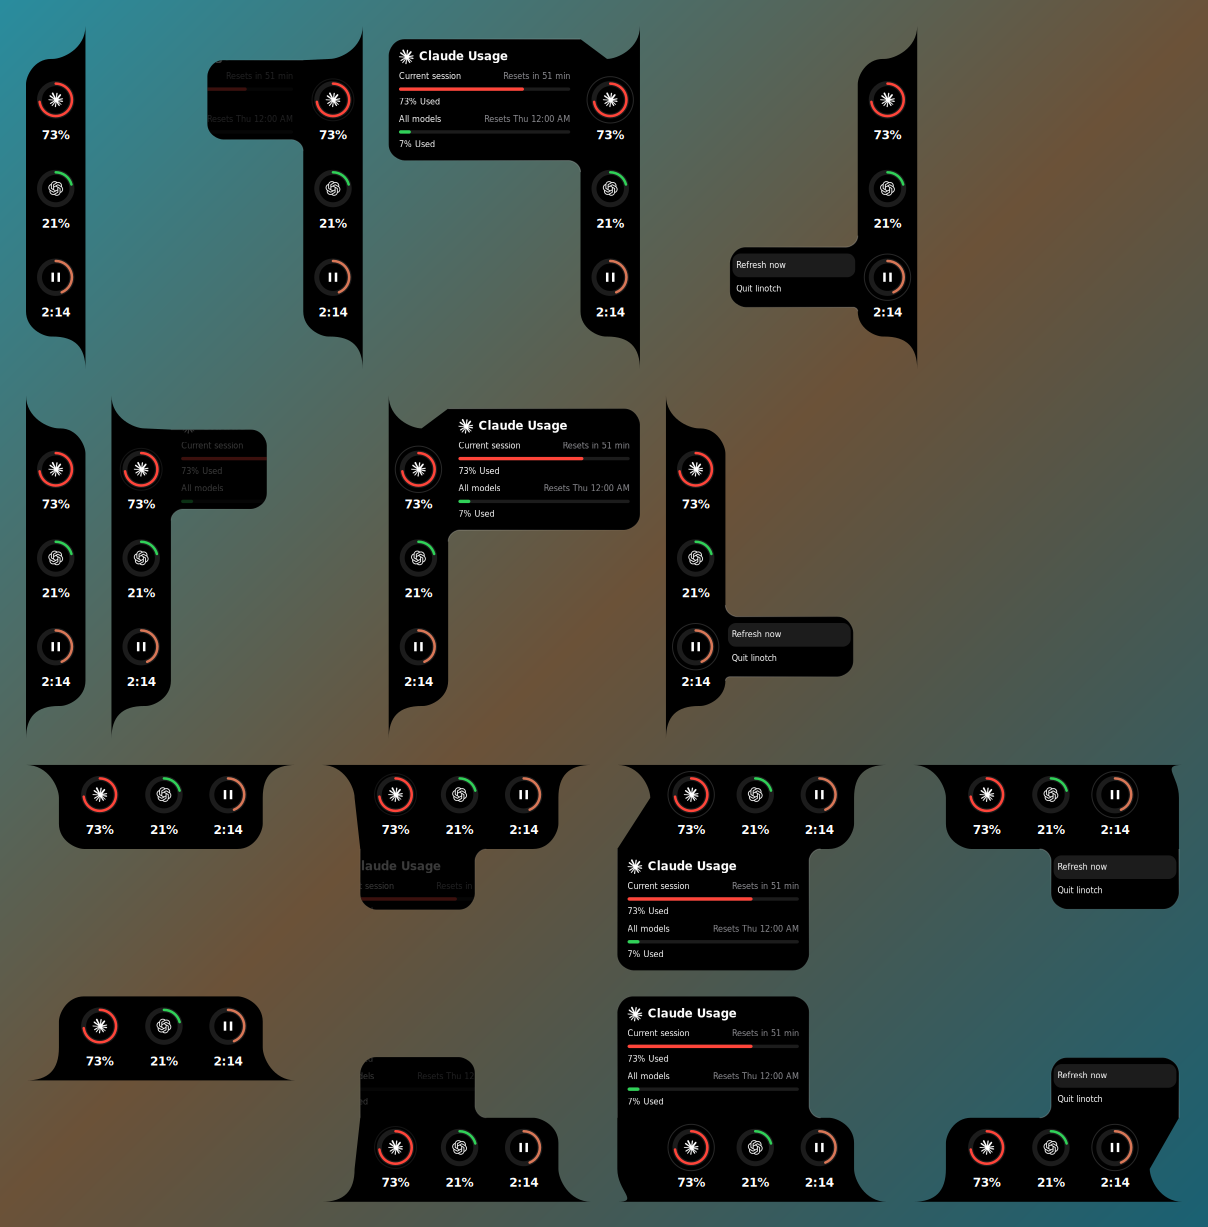
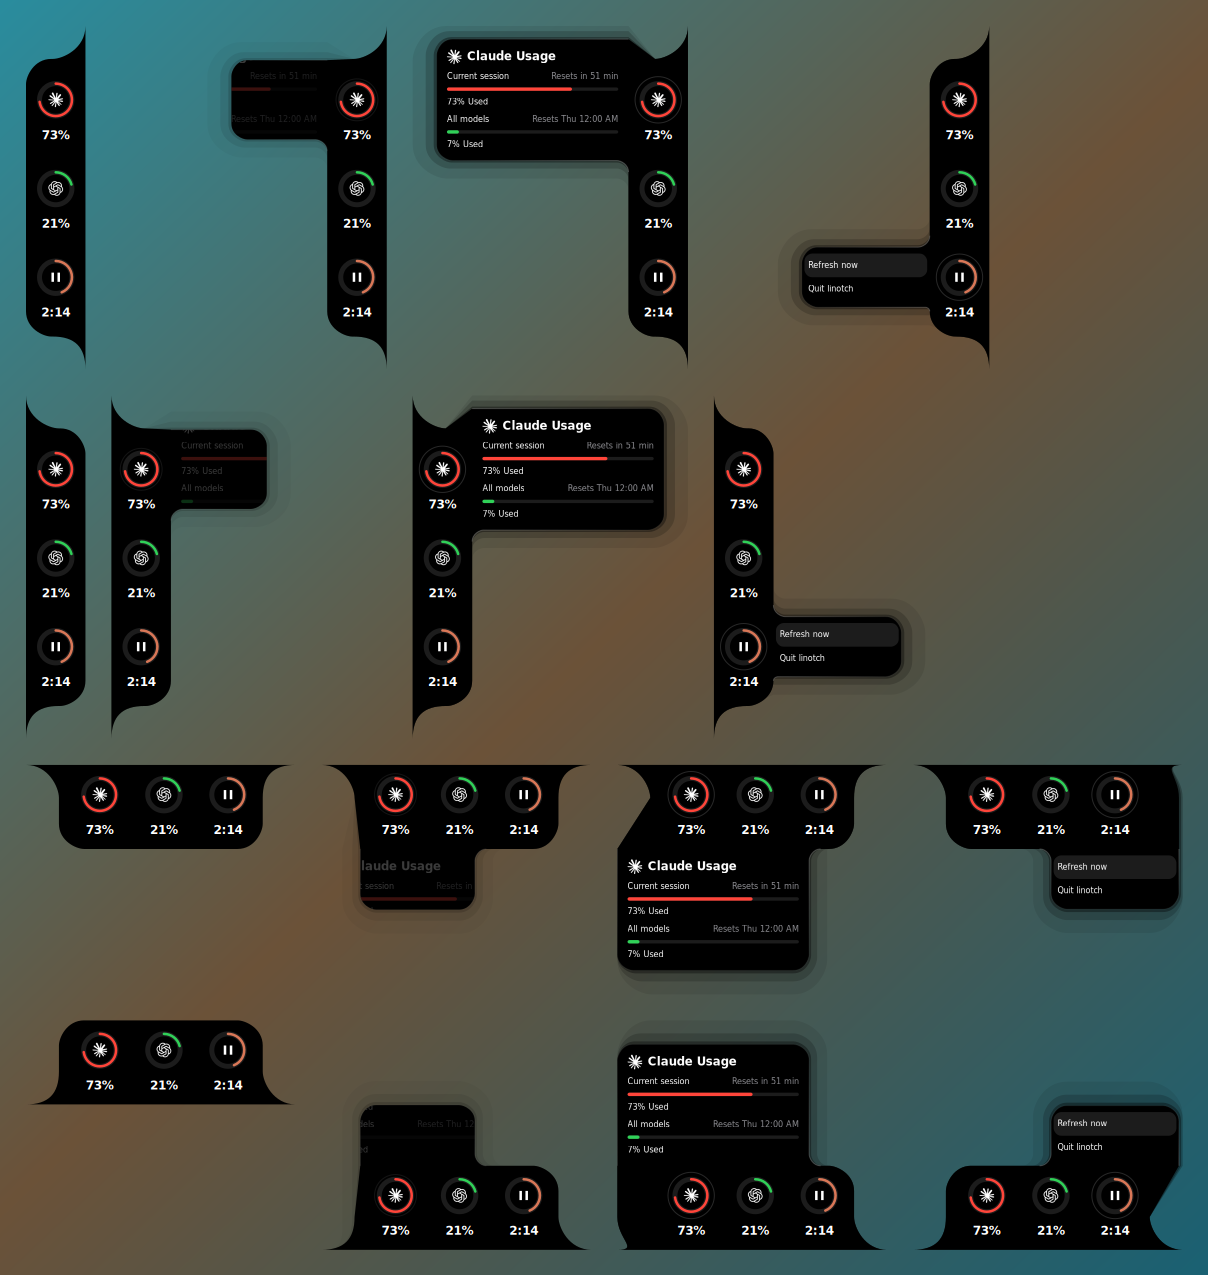
Add ambient elevation shadow and window padding for Dynamic Island panel

diff --git a/src/draw.rs b/src/draw.rs
@@ -259,6 +259,9 @@ fn card_height(ring: &Ring) -> f64 {
     2.0 * CARD_PAD + line(FONT_TITLE) + note + body
 }
 
+/// Room for the 24px ambient elevation shadow (spec 5.2).
+pub const SHADOW_PAD: f64 = 24.0;
+
 /// `hover` decides whether a card is drawn and where it points — but **not** how
 /// long the window is.
 ///
@@ -274,7 +277,7 @@ pub fn layout(rings: &[Ring], edge: Edge, open: Option<Open>) -> Layout {
         .max(menu_height());
     let depth = thick
         + if open.is_some() {
-            max_panel_depth(rings, edge)
+            max_panel_depth(rings, edge) + SHADOW_PAD
         } else {
             0.0
         };
@@ -517,8 +520,17 @@ fn canonical_panel(rect: Rect, rail: Rect, edge: Edge) -> CanonicalPanel {
 
 /// The unified Dynamic Island body: rail + panel as one continuous topological shape,
 /// with smooth concave fillets joining the rail into the panel and continuous-curvature
-/// squircles on all corners. Morph smoothly with parameter `t`.
-fn island_path(cr: &cairo::Context, rail: Rect, edge: Edge, panel: Rect, t: f64) {
+/// squircles on all corners. Morph smoothly with parameter `t`. Supports outward `offset`
+/// and concentric `expand` for the ambient elevation shadow.
+fn island_path(
+    cr: &cairo::Context,
+    rail: Rect,
+    edge: Edge,
+    panel: Rect,
+    t: f64,
+    offset: f64,
+    expand: f64,
+) {
     let (thick, length) = if edge.vertical() {
         (rail.w, rail.h)
     } else {
@@ -532,22 +544,27 @@ fn island_path(cr: &cairo::Context, rail: Rect, edge: Edge, panel: Rect, t: f64)
 
     let canon = canonical_panel(panel, rail, edge);
     let t_geom = t.clamp(0.0, 1.05);
-    let d = (canon.depth * t_geom).max(0.0);
+    let base_d = (canon.depth * t_geom).max(0.0);
 
-    if d < 0.5 {
+    if base_d < 0.5 {
         notch_path(cr, rail, edge);
         return;
     }
 
+    let d = (base_d + offset + expand).max(0.0);
+
     let v_mid = (canon.v1 + canon.v2) / 2.0;
     let target_hw = (canon.v2 - canon.v1) / 2.0;
     let init_hw = (RING_D / 2.0).min(target_hw);
-    let hw = init_hw + (target_hw - init_hw) * t.clamp(0.0, 1.0);
+    let hw = (init_hw + (target_hw - init_hw) * t.clamp(0.0, 1.0) + expand).max(0.0);
 
     let v1 = (v_mid - hw).max(0.0);
     let v2 = (v_mid + hw).min(length);
 
-    let rc = CARD_CORNER.min(d / 2.0).min((v2 - v1) / 2.0).max(0.0);
+    let rc = (CARD_CORNER + expand)
+        .min(d / 2.0)
+        .min((v2 - v1) / 2.0)
+        .max(0.0);
 
     let avail_left = v1 - (top + corner);
     let rf_left = if avail_left > 0.0 {
@@ -698,6 +715,23 @@ fn island_path(cr: &cairo::Context, rail: Rect, edge: Edge, panel: Rect, t: f64)
     }
     cr.close_path();
     let _ = cr.restore();
+}
+
+/// 3-tier concentric ambient gradient shadow (Apple elevation shadow, spec 5.2):
+/// 1. Atmospheric feather: offset 6px downward, expand 18px, alpha 0.08
+/// 2. Ambient bloom: offset 3px downward, expand 8px, alpha 0.18
+/// 3. Contact shadow: offset 1px downward, expand 2px, alpha 0.35
+fn draw_ambient_shadow(cr: &cairo::Context, rail: Rect, edge: Edge, panel: Rect, t: f64) {
+    if t <= 0.05 {
+        return;
+    }
+    let shadow_alpha = ((t - 0.1) / 0.9).clamp(0.0, 1.0);
+    const PASSES: [(f64, f64, f64); 3] = [(6.0, 18.0, 0.08), (3.0, 8.0, 0.18), (1.0, 2.0, 0.35)];
+    for (offset, expand, alpha) in PASSES {
+        island_path(cr, rail, edge, panel, t, offset, expand);
+        cr.set_source_rgba(0.0, 0.0, 0.0, alpha * shadow_alpha);
+        let _ = cr.fill();
+    }
 }
 
 /// 1px luminous rim highlight along the panel perimeter, rendered with a subtle
@@ -868,14 +902,7 @@ fn squircle_path(cr: &cairo::Context, rect: Rect, r: f64) {
         y + h - r,
     );
     cr.line_to(x, y + r);
-    cr.curve_to(
-        x,
-        y + r - r * KAPPA1,
-        x + r * (1.0 - KAPPA2),
-        y,
-        x + r,
-        y,
-    );
+    cr.curve_to(x, y + r - r * KAPPA1, x + r * (1.0 - KAPPA2), y, x + r, y);
     cr.close_path();
 }
 
@@ -955,7 +982,8 @@ pub fn draw(
     if let (Some(rect), Some(o)) = (l.panel, open)
         && t > 0.004
     {
-        island_path(cr, l.rail, edge, rect, t);
+        draw_ambient_shadow(cr, l.rail, edge, rect, t);
+        island_path(cr, l.rail, edge, rect, t, 0.0, 0.0);
         rgba(cr, body_fill());
         let _ = cr.fill();
 
@@ -965,7 +993,7 @@ pub fn draw(
             let content_alpha = ((t - 0.35) / 0.65).clamp(0.0, 1.0);
             if content_alpha > 0.001 {
                 let _ = cr.save();
-                island_path(cr, l.rail, edge, rect, t);
+                island_path(cr, l.rail, edge, rect, t, 0.0, 0.0);
                 cr.clip();
                 cr.push_group();
                 match o.kind {
@@ -1512,9 +1540,8 @@ fn preview() {
         .collect();
 
     let total_w = rows.iter().map(|r| r.w).fold(0.0_f64, f64::max) as i32;
-    let total_h = (pad * 2.0
-        + rows.iter().map(|r| r.h).sum::<f64>()
-        + gap * (rows.len() - 1) as f64) as i32;
+    let total_h =
+        (pad * 2.0 + rows.iter().map(|r| r.h).sum::<f64>() + gap * (rows.len() - 1) as f64) as i32;
 
     let surf = cairo::ImageSurface::create(cairo::Format::ARgb32, total_w, total_h).unwrap();
     let cr = cairo::Context::new(&surf).unwrap();

diff --git a/src/main.rs b/src/main.rs
@@ -1132,6 +1132,7 @@ mod tests {
             edge: Edge::Top,
             offset: 0.5,
             quitting: false,
+            lost: false,
             panel: Some(draw::Open {
                 ring: 0,
                 kind: draw::Kind::Card,
@@ -1195,4 +1196,3 @@ mod tests {
         assert_eq!(ui.t, 0.0);
     }
 }
-
